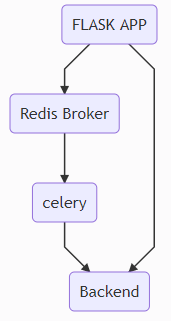
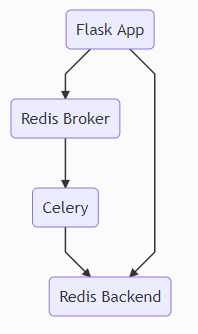
changed requirments and read me

Changed region(s): [[0.0292, 0.0, 0.9357, 0.9816], [0.848, 0.184, 0.9064, 0.7669]]

diff --git a/README.md b/README.md
@@ -54,6 +54,15 @@ docker-compose up -d --build
 
   curl http://localhost:5000/status/<token>
 
+### Dependencies
+
+* `flask` - micro web application framework, makes getting started quick and easy. Using the inbuilt server too.
+* `pillow` - python imaging library, used for converting the image to thumbnail.
+* `celery` - distributed task queue used for asynchronous task processing
+* `redis` - used as a message broker as well as the result backend for celery to communicate with the flask server.
+* `pytest` - used to inject/mock testing configuration while instantiating the app.
+* `requests` - using http requests to access backend endpoint in unit test
+
 ### To run test
 
 Create and activate virtual environment then run the following command.
